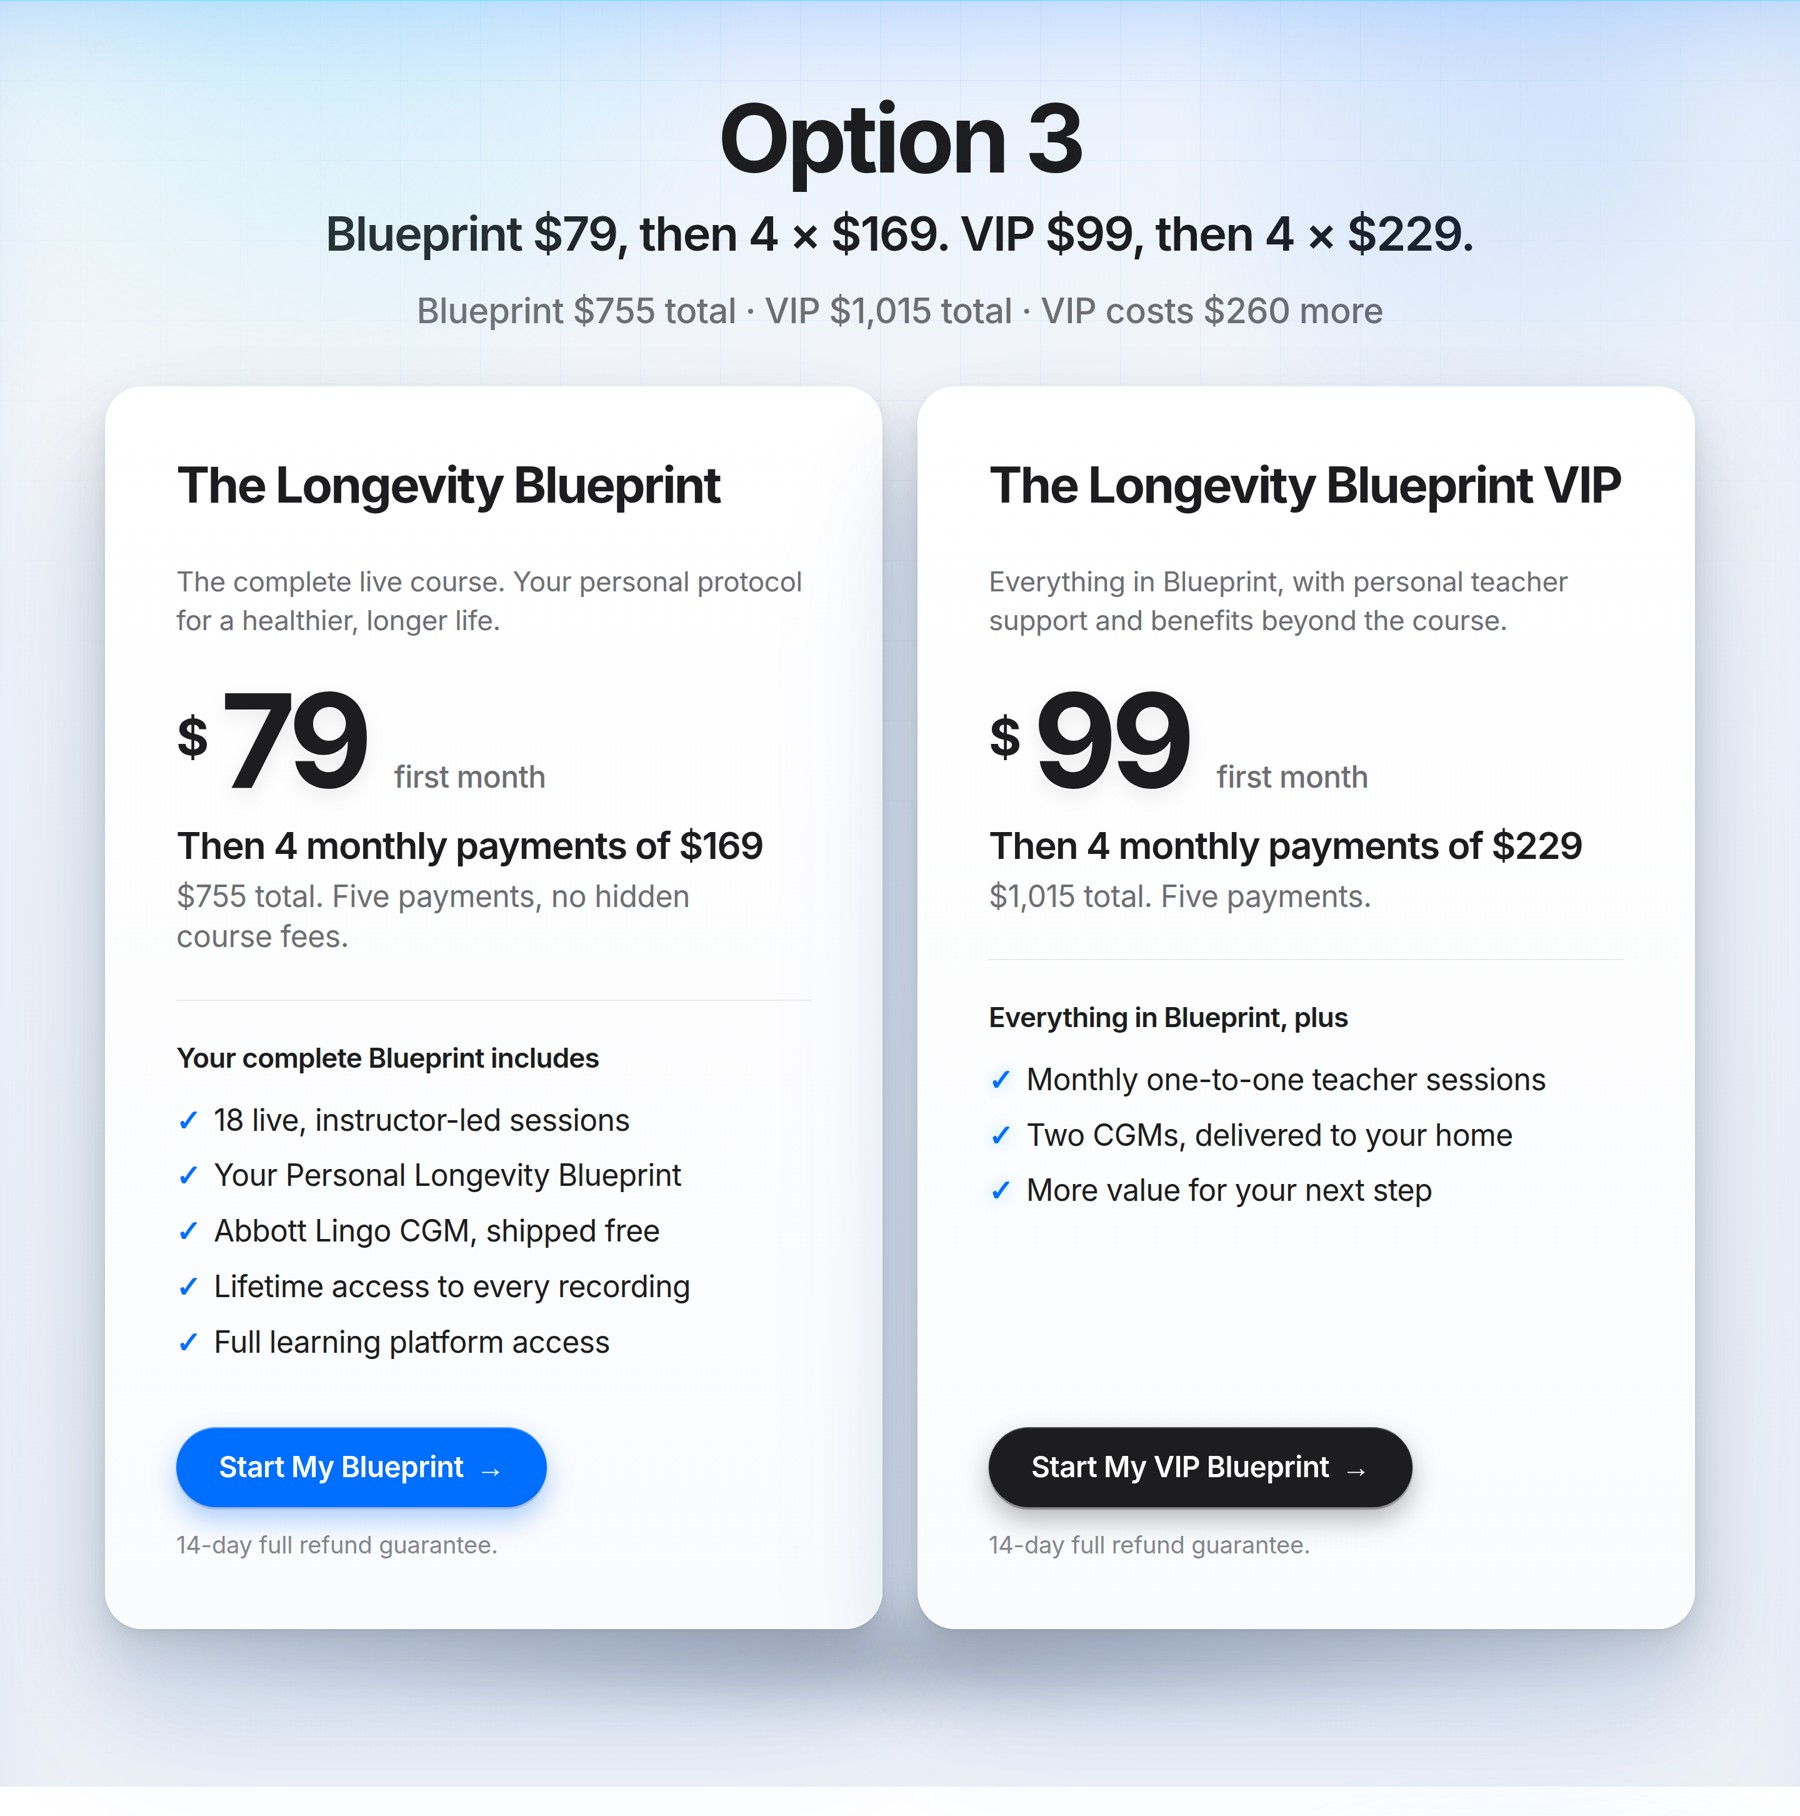
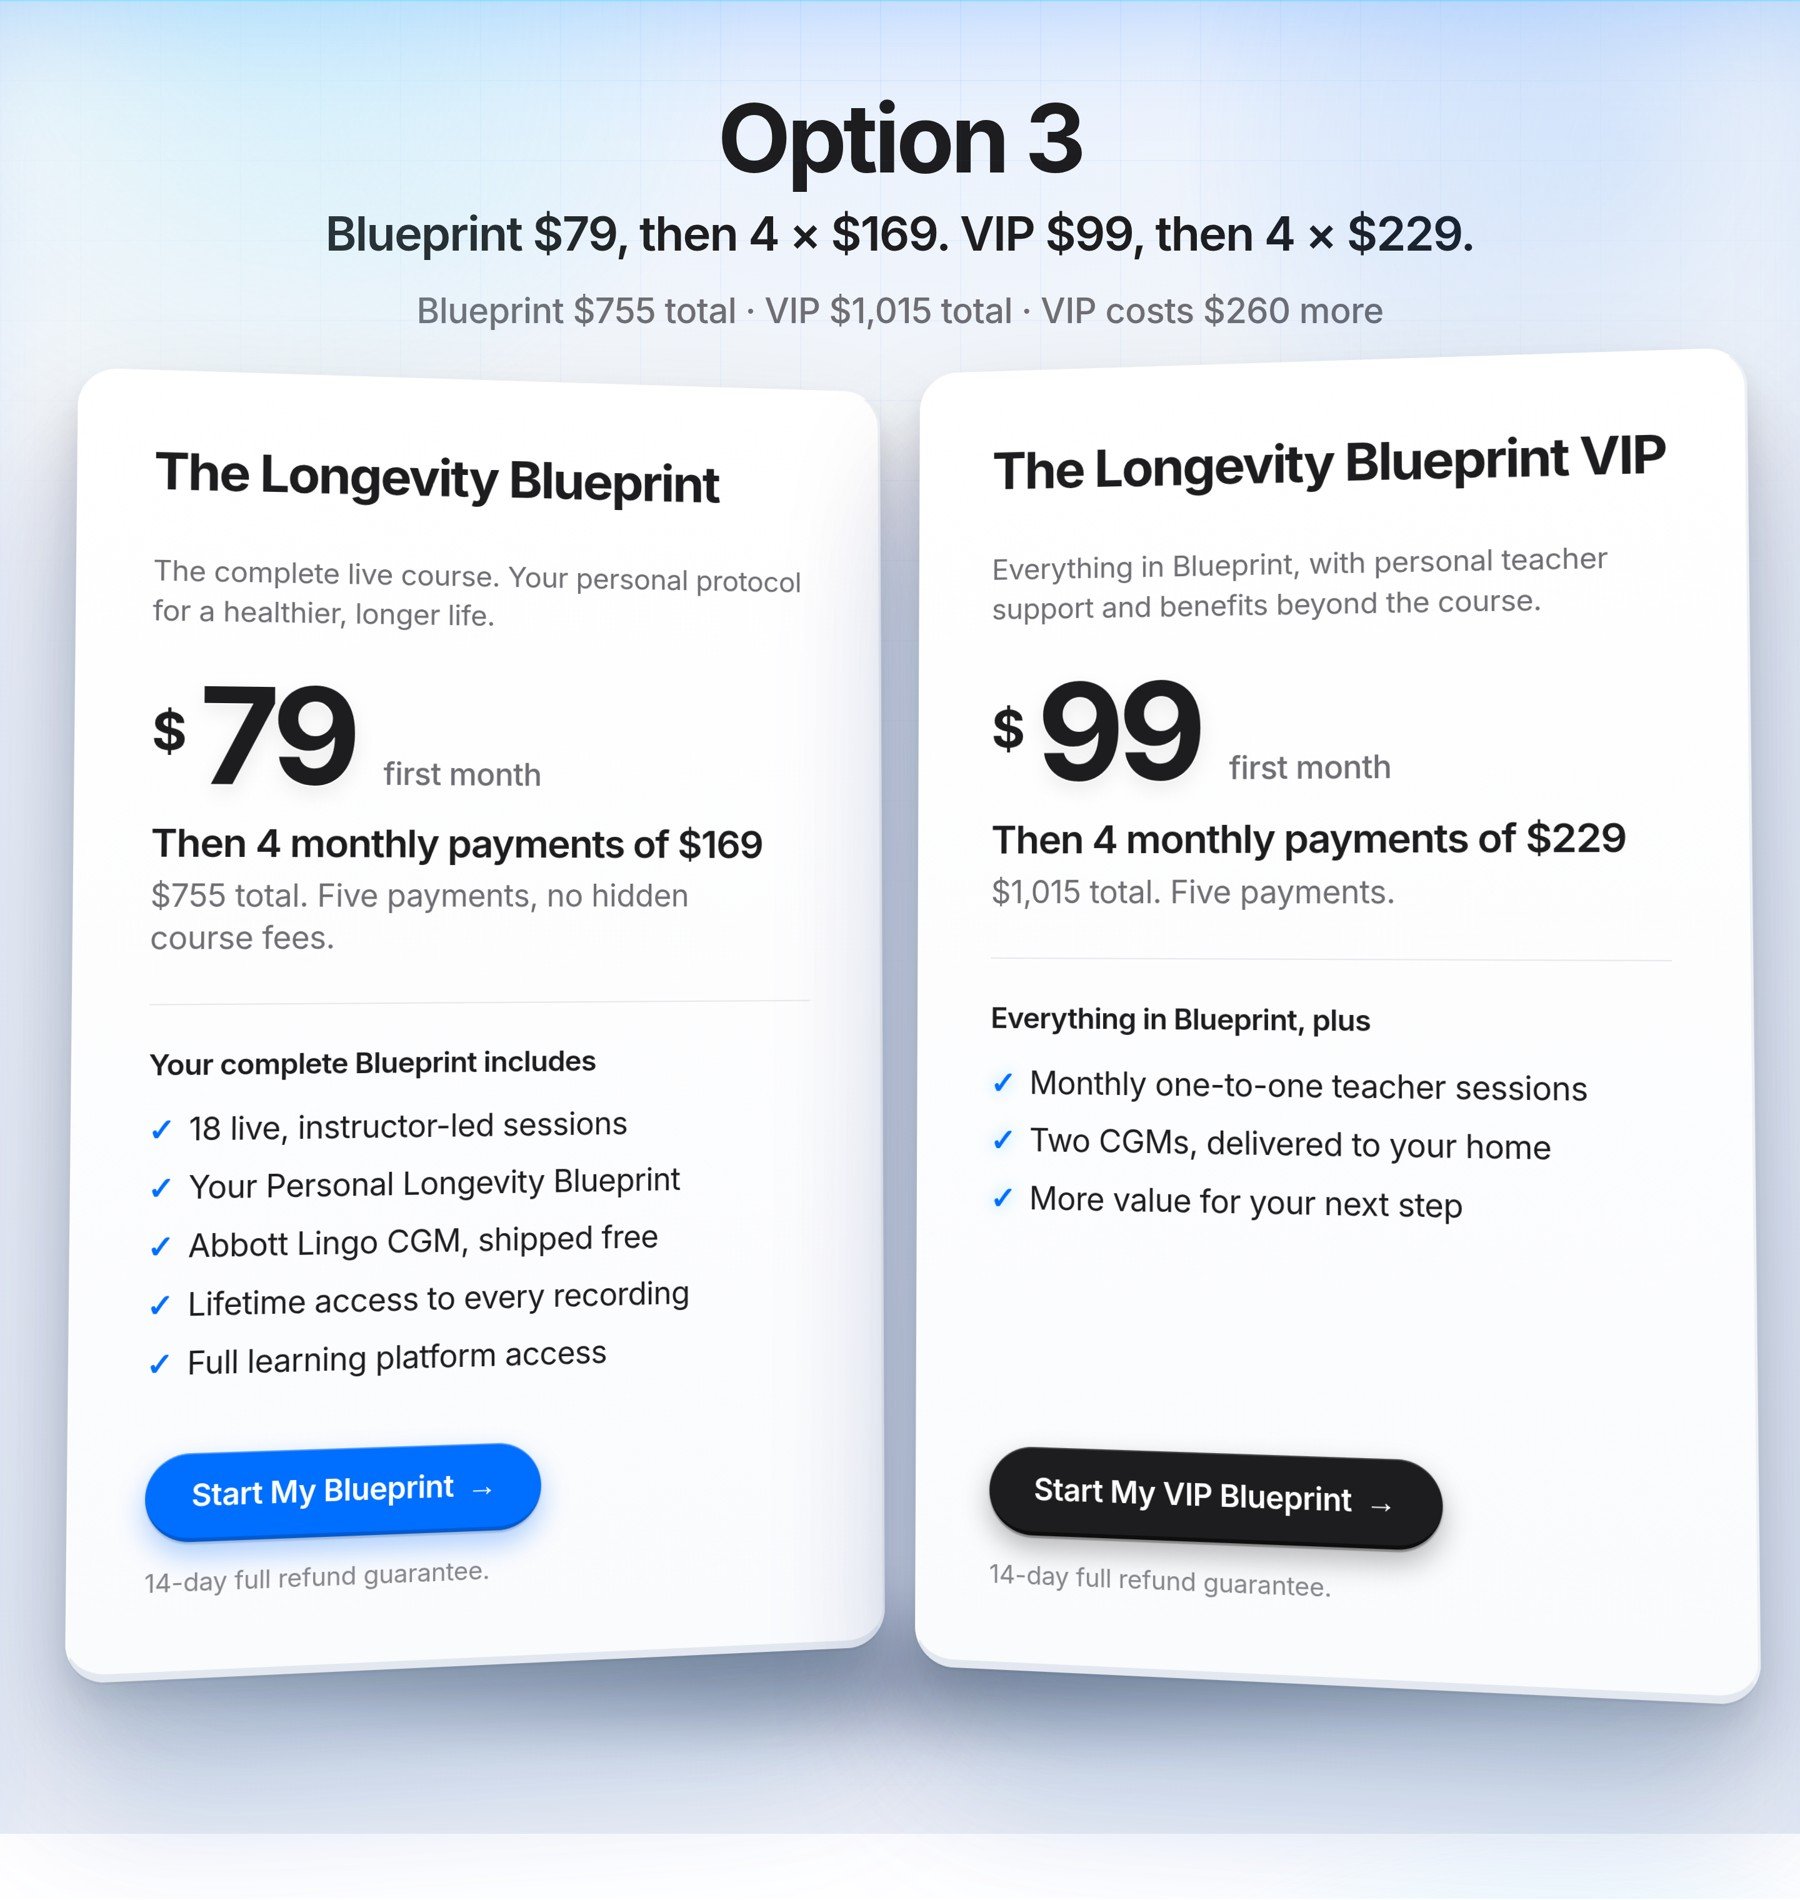
obvious 3D: perspective tilt, slab edge, ground shadow

Changed region(s): [[0.1867, 0.0308, 1.0, 0.9559], [0.0, 0.2159, 0.84, 0.9251]]

diff --git a/options/index.html b/options/index.html
@@ -1780,7 +1780,7 @@ body.lla-em-open #et-bumpyard-widget{display:none!important}
   html body#lpRoot #hero .pdp-cine-sub{font-family:'Inter',sans-serif!important;font-style:normal!important;text-transform:none!important}
 }
 </style>
-<link rel="stylesheet" href="../relaunch.css?v=vip199"><style id="opt-only">body>*:not(section.bp-offer):not(script):not(style){display:none!important}body>section.bp-offer{display:block!important}.bp-foot{display:none!important}.opt-sum{font-size:clamp(22px,2.2vw,30px)!important;font-weight:700;color:#0B1B33;margin:18px auto 0;text-align:center;letter-spacing:-.4px;max-width:none!important;white-space:nowrap}.bp-heading h2 em{display:block;font-size:.72em;margin-top:6px}[class^="lla-cta"],.lla-cta,#llaCta,.lla-sticky-cta,.lla-float-cta,#llaFloatCta,[id^="llaFloat"],.lla-float-cta--home{display:none!important;visibility:hidden!important}</style><link href="https://fonts.googleapis.com/css2?family=Playfair+Display:ital,wght@0,400;0,500;0,600;1,400;1,500&display=swap" rel="stylesheet"><link rel="stylesheet" href="../compare/apple.css?v=a4"></head>
+<link rel="stylesheet" href="../relaunch.css?v=vip199"><style id="opt-only">body>*:not(section.bp-offer):not(script):not(style){display:none!important}body>section.bp-offer{display:block!important}.bp-foot{display:none!important}.opt-sum{font-size:clamp(22px,2.2vw,30px)!important;font-weight:700;color:#0B1B33;margin:18px auto 0;text-align:center;letter-spacing:-.4px;max-width:none!important;white-space:nowrap}.bp-heading h2 em{display:block;font-size:.72em;margin-top:6px}[class^="lla-cta"],.lla-cta,#llaCta,.lla-sticky-cta,.lla-float-cta,#llaFloatCta,[id^="llaFloat"],.lla-float-cta--home{display:none!important;visibility:hidden!important}</style><link href="https://fonts.googleapis.com/css2?family=Playfair+Display:ital,wght@0,400;0,500;0,600;1,400;1,500&display=swap" rel="stylesheet"><link rel="stylesheet" href="../compare/apple.css?v=a5"></head>
 <body id="lpRoot">
 <!-- Google Tag Manager (noscript) -->
 

diff --git a/compare/apple.css b/compare/apple.css
@@ -58,3 +58,18 @@
 #lpRoot .bp-offer .bp-grid::after{bottom:-70px;height:110px;left:4%;right:4%;background:radial-gradient(closest-side,rgba(11,27,51,.22),rgba(11,27,51,0));filter:blur(14px)}
 #lpRoot .bp-card .bp-button{transform:translateZ(0);box-shadow:0 1px 2px rgba(0,0,0,.14),0 10px 22px rgba(0,110,255,.32),0 2px 0 rgba(0,0,0,.08),inset 0 1px 0 rgba(255,255,255,.3)!important}
 #lpRoot .bp-card.bp-vip .bp-button{box-shadow:0 1px 2px rgba(0,0,0,.25),0 10px 22px rgba(0,0,0,.28),0 2px 0 rgba(0,0,0,.2),inset 0 1px 0 rgba(255,255,255,.18)!important}
+/* a5: obvious 3D */
+#lpRoot .bp-offer .bp-grid{perspective:1600px!important;perspective-origin:50% 40%}
+#lpRoot .bp-card{transform:rotateY(7deg) rotateX(2deg) translateY(-6px)!important;transform-origin:100% 50%}
+#lpRoot .bp-card.bp-vip{transform:rotateY(-7deg) rotateX(2deg) translateY(-6px) scale(1.03)!important;transform-origin:0% 50%}
+#lpRoot .bp-card,#lpRoot .bp-card.bp-vip{border-bottom:6px solid #E3E8F0!important;border-right:2px solid #EDF0F5!important;box-shadow:
+  inset 0 1px 0 #FFFFFF,
+  0 2px 0 rgba(0,0,0,.04),
+  0 10px 20px rgba(11,27,51,.08),
+  0 30px 50px rgba(11,27,51,.12),
+  0 60px 110px rgba(11,27,51,.18),
+  0 100px 160px rgba(0,110,255,.12)!important}
+#lpRoot .bp-offer .bp-grid::after{bottom:-90px;height:140px;left:2%;right:2%;background:radial-gradient(closest-side,rgba(11,27,51,.30),rgba(11,27,51,0));filter:blur(16px)}
+#lpRoot .bp-offer{padding-bottom:150px!important}
+#lpRoot .bp-card .bp-button{border-bottom:3px solid rgba(0,0,0,.18)!important}
+#lpRoot .bp-card.bp-vip .bp-button{border-bottom:3px solid rgba(0,0,0,.5)!important}

diff --git a/compare/index.html b/compare/index.html
@@ -1,4 +1,4 @@
 <!doctype html><html lang="en"><head><meta charset="utf-8"><meta name="viewport" content="width=device-width,initial-scale=1"><meta name="robots" content="noindex"><title>Blueprint VIP pricing · 3 options</title>
 <style>body{margin:0;background:#F3F7FC;font-family:-apple-system,Inter,sans-serif;color:#0B1B33}.w{max-width:1100px;margin:0 auto;padding:16px 10px 40px}h1{font-size:22px;margin:6px 6px 14px;letter-spacing:-.3px}img{width:100%;display:block;border-radius:14px;box-shadow:0 6px 24px rgba(11,27,51,.12);margin-bottom:18px;background:#fff}</style></head>
 <body><div class="w"><h1>Blueprint VIP pricing · 3 options</h1>
-<img src="option-1.jpg?v=16" alt="Option 1: VIP $99, then 4 × $199"><img src="option-2.jpg?v=16" alt="Option 2: VIP $129, then 4 × $229"><img src="option-3.jpg?v=16" alt="Option 3: VIP $99, then 4 × $229"></div></body></html>
+<img src="option-1.jpg?v=17" alt="Option 1: VIP $99, then 4 × $199"><img src="option-2.jpg?v=17" alt="Option 2: VIP $129, then 4 × $229"><img src="option-3.jpg?v=17" alt="Option 3: VIP $99, then 4 × $229"></div></body></html>
